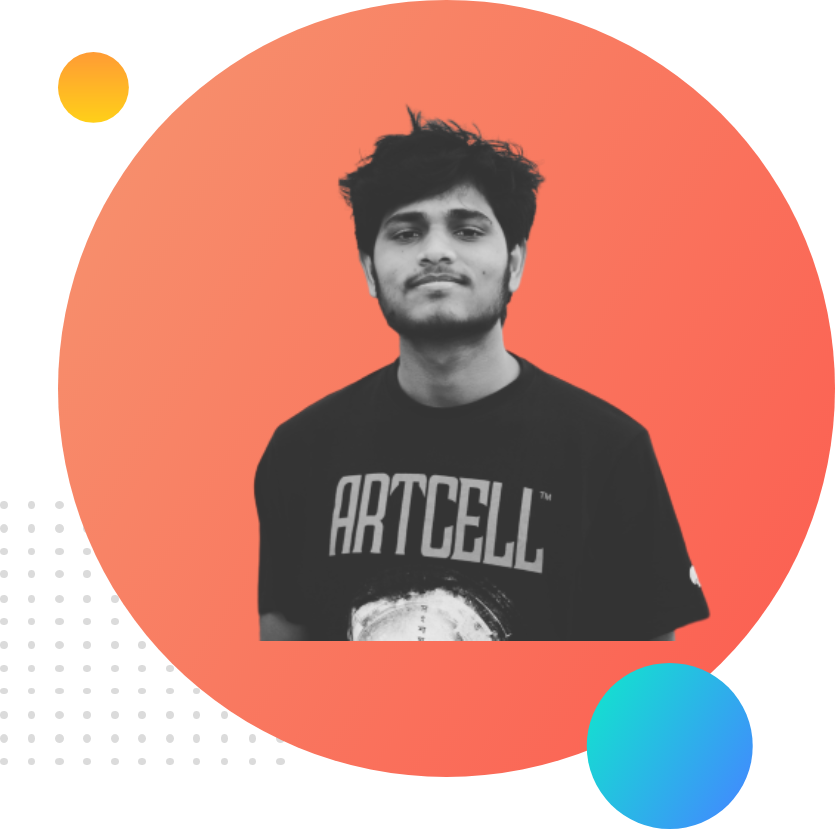
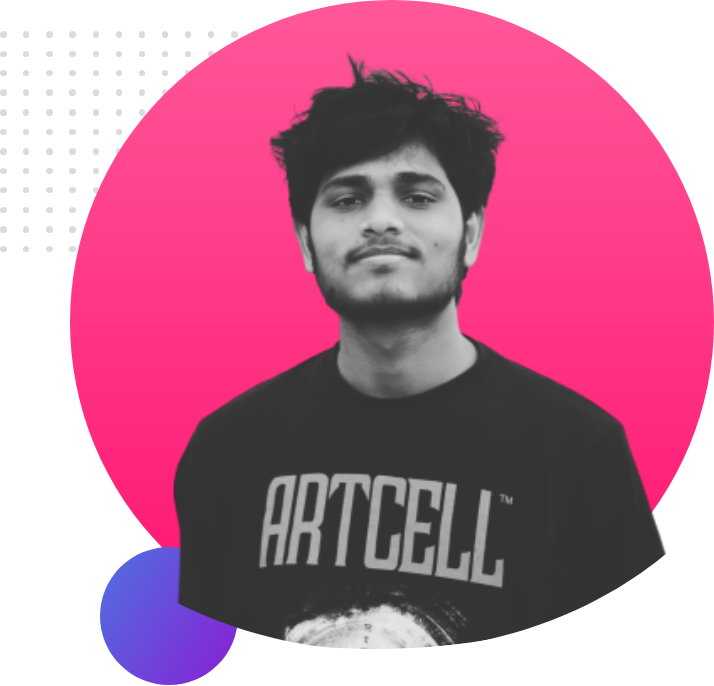
some changes made regarding images

diff --git a/index.html b/index.html
@@ -5,7 +5,7 @@
     <meta charset="UTF-8">
     <meta http-equiv="X-UA-Compatible" content="IE=edge">
     <meta name="viewport" content="width=device-width, initial-scale=1.0">
-    <title>Md. Ariful Islam</title>
+    <title>MD Ariful Islam</title>
     <link rel="preconnect" href="https://fonts.googleapis.com">
     <link rel="preconnect" href="https://fonts.gstatic.com" crossorigin>
     <link href="https://fonts.googleapis.com/css2?family=Poppins&family=Roboto:wght@300&display=swap" rel="stylesheet">
@@ -28,13 +28,13 @@
         </div>
 
         <div class="half-width">
-            <img src="images/my-photo.png" alt="">
+            <img src="images/my photo.png" alt="">
         </div>
     </section>
 
     <section class="dream-big flexible-container">
         <div class="half-width">
-            <img src="images/jhankar2.png" alt="">
+            <img src="images/my-photo.png" alt="">
         </div>
 
         <div class="half-width">

diff --git a/style.css b/style.css
@@ -22,7 +22,7 @@ h1{
 }
 
 .half-width img{
-    width: 70%;
+    width: 80%;
 }
 
 .link-button{
@@ -77,7 +77,7 @@ h2{
 
 #full-stack-exp{
     border-left: 7px solid;
-    border-image: linear-gradient(salmon, tomato);
+    border-image: linear-gradient(purple, tomato);
     border-image-slice: 1;
 }
 
